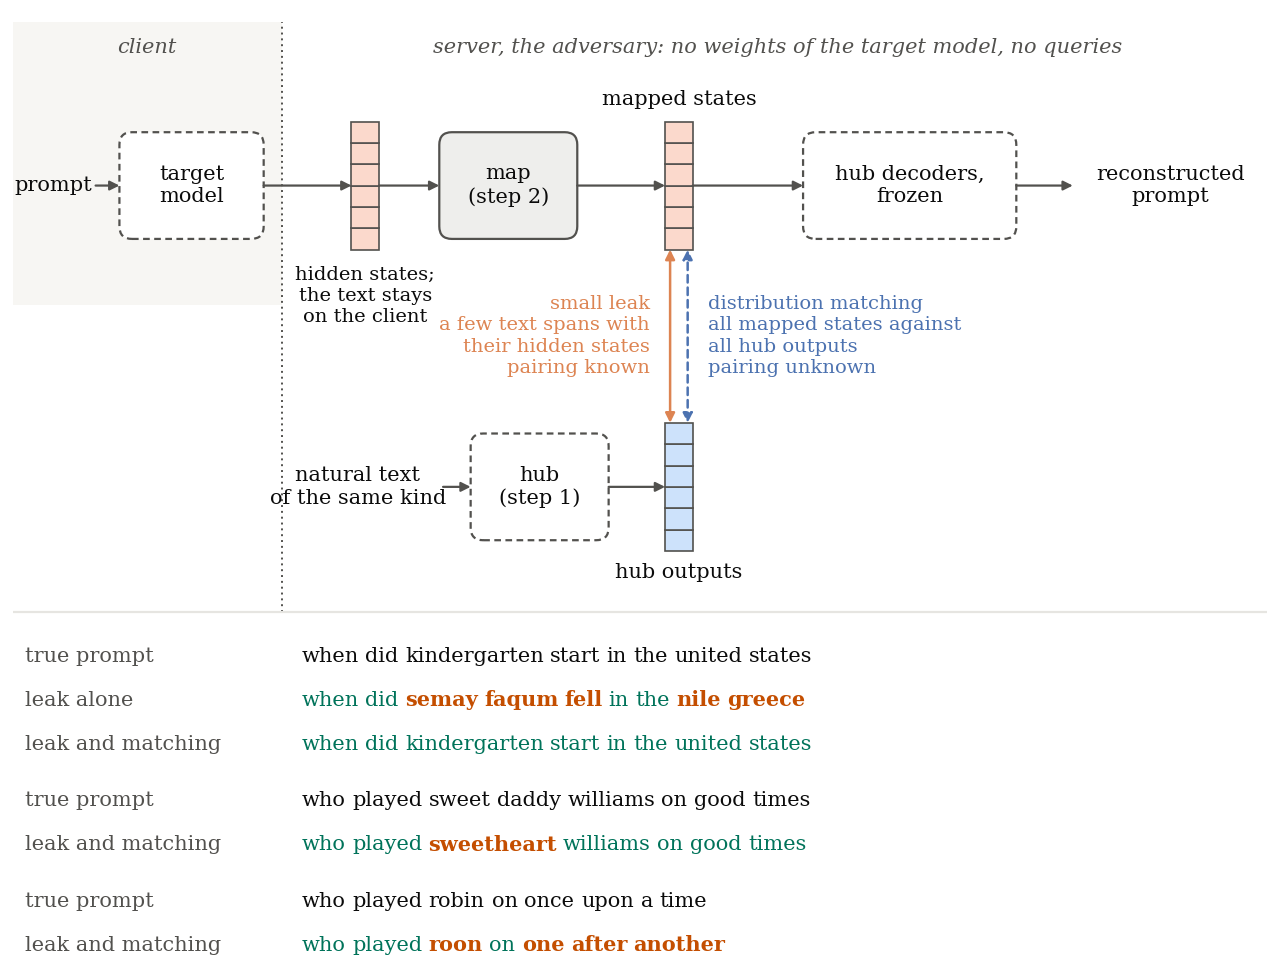
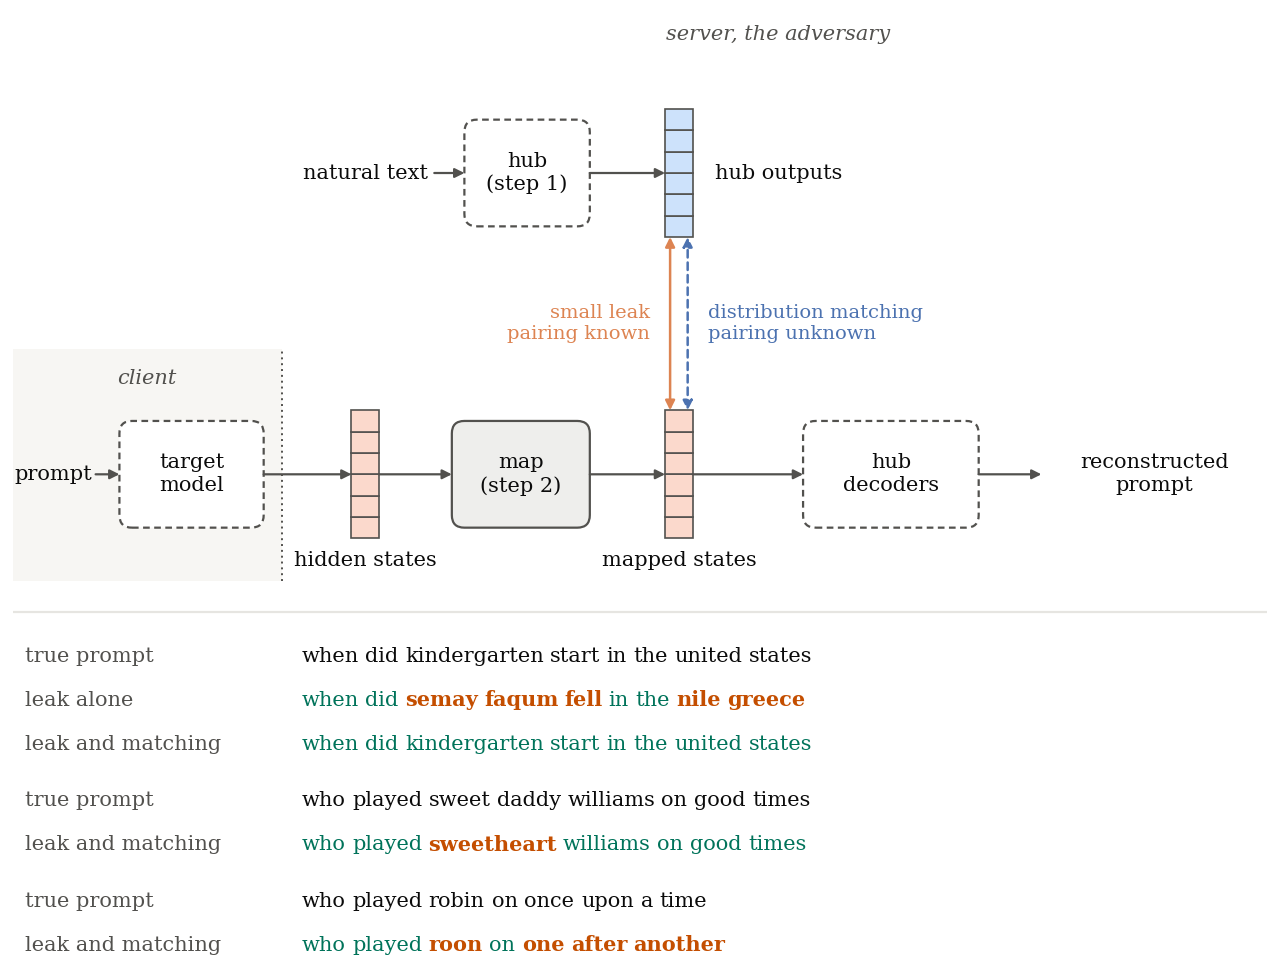
ch1 overview figure: hub lane on top, shorter labels

diff --git a/figures/scripts/make_figures.py b/figures/scripts/make_figures.py
@@ -124,7 +124,7 @@ def overview():
     ax.set_ylim(-8.5, 68)
     ax.axis("off")
     fig.subplots_adjust(0.01, 0.01, 0.99, 0.99)
-    top, bottom, h = 54, 30, 8.5
+    h = 8.5
     light, green, miss = "#eeeeec", "#00735a", "#c44e00"
 
     def box(x, y, w, text, fill, dashed=False):
@@ -142,43 +142,41 @@ def overview():
             ax.add_patch(plt.Rectangle((x, y - cells * ch / 2 + k * ch), w, ch, fc=fill, ec=INK2, lw=0.6))
         return y - cells * ch / 2, y + cells * ch / 2
 
-    # The client on the left, the server, which is the adversary, on the right.
-    ax.add_patch(plt.Rectangle((0, 44.5), 21.5, 22.5, fc="#f7f6f3", ec="none"))
-    ax.plot([21.5, 21.5], [20, 67], color=INK2, lw=0.7, ls=(0, (1, 2)))
-    ax.text(10.7, 65, "client", ha="center", va="center", fontsize=7.5, color=INK2, style="italic")
-    ax.text(61, 65, "server, the adversary: no weights of the target model, no queries", ha="center", va="center", fontsize=7.5,
-            color=INK2, style="italic")
-    # Top lane: the prompt leaves the client as hidden states; the map and the frozen hub turn them back into text.
-    ax.text(3.2, top, "prompt", ha="center", va="center", fontsize=7.5, color=INK)
-    arrow(6.6, top, 8.5, top)
-    box(8.5, top, 11.5, "target\nmodel", "#ffffff", dashed=True)
-    vs = 27
-    vector(vs, top, "#fbd9cc")
-    arrow(20, top, vs, top)
-    ax.text(vs + 1.1, top - 6.4, "hidden states;\nthe text stays\non the client", ha="center", va="top", fontsize=7, color=INK, linespacing=1.2)
-    box(34, top, 11, "map\n(step 2)", light)
-    arrow(vs + 2.2, top, 34, top)
-    vx = 52
-    lo_t, hi_t = vector(vx, top, "#fbd9cc")
-    arrow(45, top, vx, top)
-    ax.text(vx + 1.1, hi_t + 1.0, "mapped states", ha="center", va="bottom", fontsize=7.5, color=INK)
-    box(63, top, 17, "hub decoders,\nfrozen", "#ffffff", dashed=True)
-    arrow(vx + 2.2, top, 63, top)
-    arrow(80, top, 84.5, top)
-    ax.text(92.3, top, "reconstructed\nprompt", ha="center", va="center", fontsize=7.5, color=INK, linespacing=1.25)
-    # Bottom lane: text of the adversary's own, through public models into the hub.
-    ax.text(27.5, bottom, "natural text\nof the same kind", ha="center", va="center", fontsize=7.5, color=INK, linespacing=1.25)
-    box(36.5, bottom, 11, "hub\n(step 1)", "#ffffff", dashed=True)
-    arrow(34.3, bottom, 36.5, bottom)
-    lo_b, hi_b = vector(vx, bottom, "#cde2fb")
-    arrow(47.5, bottom, vx, bottom)
-    ax.text(vx + 1.1, lo_b - 1.0, "hub outputs", ha="center", va="top", fontsize=7.5, color=INK)
-    # The two terms that train the map.
+    top, bottom = 55, 31
+    # Step 1, top lane: the adversary's own text through the frozen hub.
+    ax.text(61, 66, "server, the adversary", ha="center", va="center", fontsize=7.5, color=INK2, style="italic")
+    vs, vx = 27, 52
+    ax.text(vs + 1.1, top, "natural text", ha="center", va="center", fontsize=7.5, color=INK)
+    box(36, top, 10, "hub\n(step 1)", "#ffffff", dashed=True)
+    arrow(33.6, top, 36, top)
+    lo_t, hi_t = vector(vx, top, "#cde2fb")
+    arrow(46, top, vx, top)
+    ax.text(vx + 4.0, top, "hub outputs", ha="left", va="center", fontsize=7.5, color=INK)
+    # Step 2, bottom lane: the prompt leaves the client as hidden states; the map and the hub decoders turn them into text.
+    ax.add_patch(plt.Rectangle((0, 22.5), 21.5, 18.5, fc="#f7f6f3", ec="none"))
+    ax.plot([21.5, 21.5], [22.5, 41], color=INK2, lw=0.7, ls=(0, (1, 2)))
+    ax.text(10.7, 38.6, "client", ha="center", va="center", fontsize=7.5, color=INK2, style="italic")
+    ax.text(3.2, bottom, "prompt", ha="center", va="center", fontsize=7.5, color=INK)
+    arrow(6.6, bottom, 8.5, bottom)
+    box(8.5, bottom, 11.5, "target\nmodel", "#ffffff", dashed=True)
+    lo_s, hi_s = vector(vs, bottom, "#fbd9cc")
+    arrow(20, bottom, vs, bottom)
+    ax.text(vs + 1.1, lo_s - 1.0, "hidden states", ha="center", va="top", fontsize=7.5, color=INK)
+    box(35, bottom, 11, "map\n(step 2)", light)
+    arrow(vs + 2.2, bottom, 35, bottom)
+    lo_b, hi_b = vector(vx, bottom, "#fbd9cc")
+    arrow(46, bottom, vx, bottom)
+    ax.text(vx + 1.1, lo_b - 1.0, "mapped states", ha="center", va="top", fontsize=7.5, color=INK)
+    box(63, bottom, 14, "hub\ndecoders", "#ffffff", dashed=True)
+    arrow(vx + 2.2, bottom, 63, bottom)
+    arrow(77, bottom, 82, bottom)
+    ax.text(91, bottom, "reconstructed\nprompt", ha="center", va="center", fontsize=7.5, color=INK, linespacing=1.25)
+    # The two terms that train the map, between the hub outputs and the mapped states.
     arrow(vx + 0.4, hi_b, vx + 0.4, lo_t, color=SUPERVISED, style="<|-|>")
     arrow(vx + 1.8, hi_b, vx + 1.8, lo_t, color=HYBRID, style="<|-|>", ls=(0, (3, 2)))
     mid = (hi_b + lo_t) / 2
-    ax.text(vx - 1.2, mid, "small leak\na few text spans with\ntheir hidden states\npairing known", ha="right", va="center", fontsize=7, color=SUPERVISED, linespacing=1.25)
-    ax.text(vx + 3.4, mid, "distribution matching\nall mapped states against\nall hub outputs\npairing unknown", ha="left", va="center", fontsize=7, color=HYBRID,
+    ax.text(vx - 1.2, mid, "small leak\npairing known", ha="right", va="center", fontsize=7, color=SUPERVISED, linespacing=1.25)
+    ax.text(vx + 3.4, mid, "distribution matching\npairing unknown", ha="left", va="center", fontsize=7, color=HYBRID,
             linespacing=1.25)
     # Example reconstructions, word by word: green where the word is in the true prompt.
     ax.plot([0, 100], [20, 20], color=GRID, lw=0.8)
